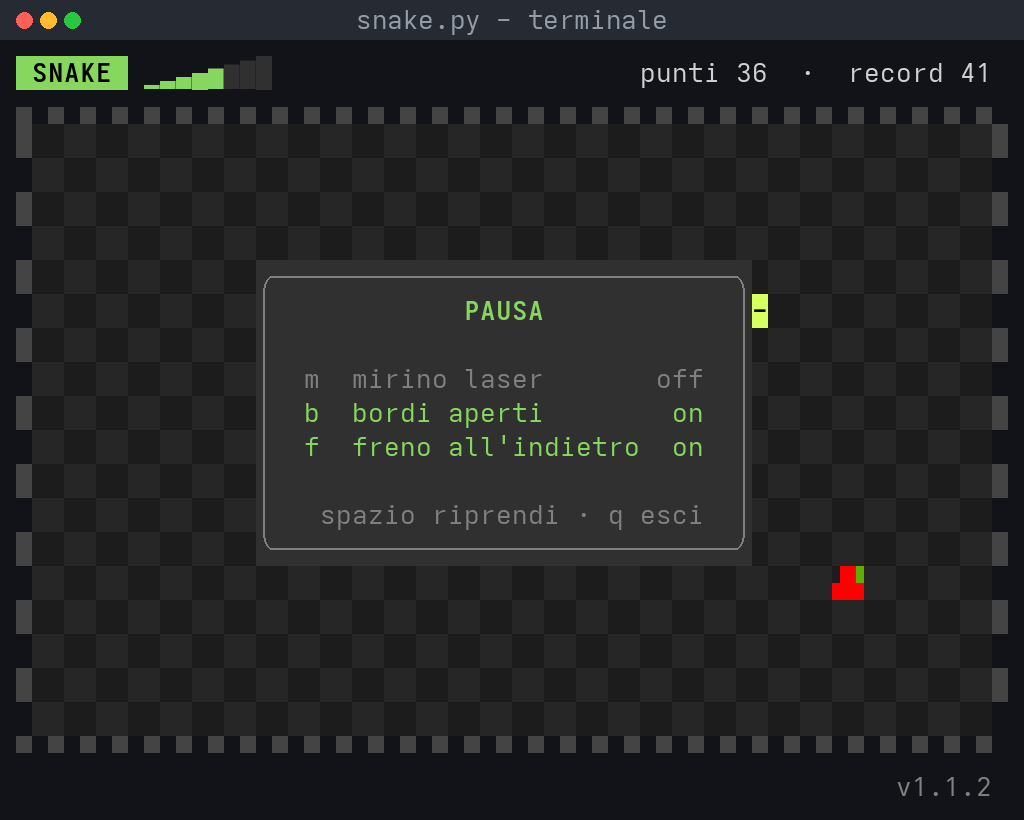
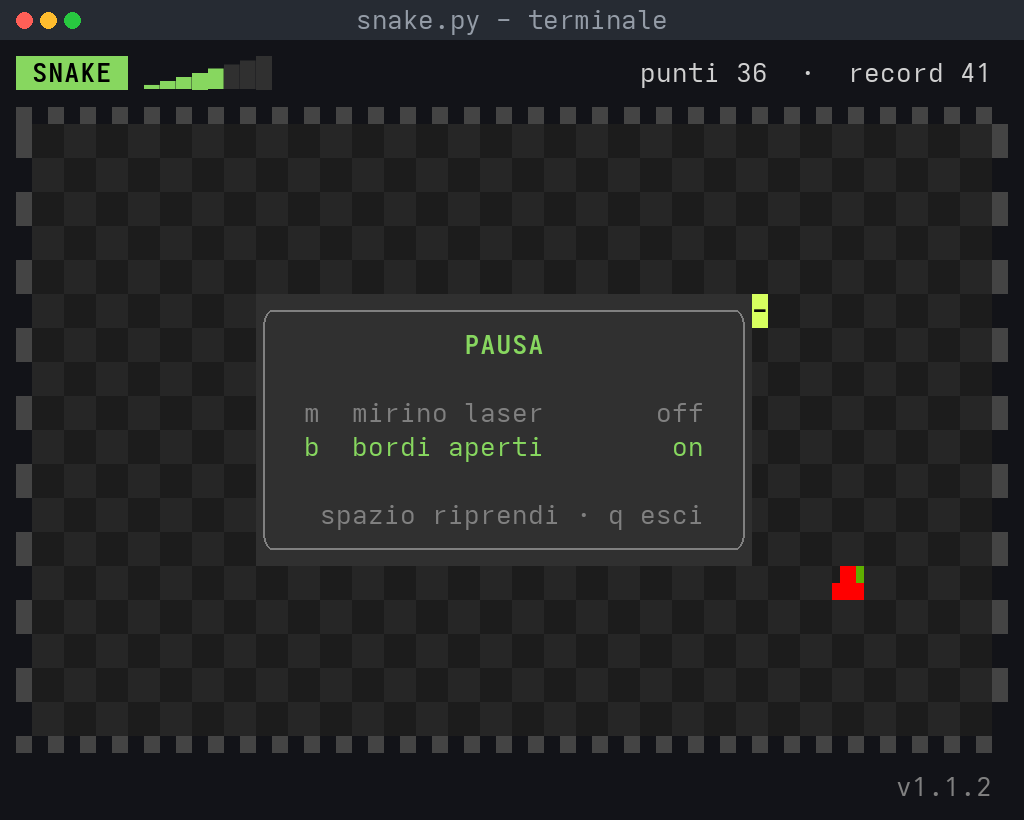
Frenata con la freccia opposta alla marcia, via l'aiuto freno (f)
Tenendo premuta la freccia opposta alla direzione di marcia il serpente
rallenta progressivamente (5 ms per pressione, fino a 250 ms per passo)
e resta lento finché i frutti non lo riaccelerano. Non serve più
attivare il freno con f: l'aiuto e il ripristino della velocità allo
spegnimento sono stati rimossi.

diff --git a/snake.py b/snake.py
@@ -6,16 +6,16 @@ Uso:
     python3 snake.py
 
 Controlli:
-    frecce o WASD : muovi il serpente
+    frecce o WASD : muovi il serpente (tenendo premuta la direzione di
+                    marcia scatta in avanti; la direzione opposta frena)
     m             : mirino laser on/off (mostra dove stai andando)
     b             : bordi aperti on/off (si esce da un lato, si rientra dall'altro)
-    f             : freno on/off (il tasto opposto alla marcia rallenta;
-                    spegnendolo si torna alla velocità normale)
     spazio        : pausa / riprendi (e stato degli aiuti)
     r             : nuovo gioco (dopo lo scontro)
     q             : esci
 
-Il serpente accelera a ogni frutto mangiato; muri e corpo = game over.
+Il serpente accelera a ogni frutto mangiato; la frenata dura finché i frutti
+non lo riaccelerano. Muri e corpo = game over.
 """
 
 import curses
@@ -29,8 +29,9 @@ MIN_H, MIN_W = 10, 20        # area di gioco minima (in celle)
 START_DELAY_MS = 130         # passo iniziale (ms)
 MIN_DELAY_MS = 55            # velocità massima
 SPEEDUP_MS = 4               # accelerazione per cibo mangiato
-BRAKE_MS = 15                # rallentamento per ogni colpo di freno
-MAX_DELAY_MS = 250           # velocità minima (con il freno)
+BRAKE_MS = 5                 # rallentamento per ogni pressione (o ripetizione)
+                             # della freccia opposta alla marcia
+MAX_DELAY_MS = 250           # velocità minima (frenando)
 
 UP, DOWN, LEFT, RIGHT = (-1, 0), (1, 0), (0, -1), (0, 1)
 KEYMAP = {
@@ -41,8 +42,7 @@ KEYMAP = {
 }
 # aiuti per chi inizia: tasto -> (nome, etichetta nel riquadro di pausa)
 ASSISTS = {ord('m'): ('mirino', 'mirino laser'),
-           ord('b'): ('bordi', 'bordi aperti'),
-           ord('f'): ('freno', "freno all'indietro")}
+           ord('b'): ('bordi', 'bordi aperti')}
 
 
 def toward(a, b):
@@ -112,10 +112,6 @@ class Game:
     def brake(self):
         """Rallenta di un passo (il cibo poi riaccelera come sempre)."""
         self.delay_ms = min(MAX_DELAY_MS, self.delay_ms + BRAKE_MS)
-
-    def release_brake(self):
-        """Annulla le frenate: torna alla velocità che avrebbe senza freno."""
-        self.delay_ms = max(MIN_DELAY_MS, START_DELAY_MS - self.score * SPEEDUP_MS)
 
     def step(self):
         """Avanza di un tick. Restituisce 'ok', 'ate', 'dead' o 'won'."""
@@ -311,7 +307,7 @@ def render(stdscr, game, state, best, pen, glow=(), assists=()):
 
     # intestazione
     put(0, 0, " SNAKE ", pen(16, ACCENT, curses.A_BOLD))
-    # tachimetro: 8 tacche, dalla velocità minima (freno) alla massima
+    # tachimetro: 8 tacche, dalla velocità minima (frenando) alla massima
     level = round(8 * (MAX_DELAY_MS - game.delay_ms) / (MAX_DELAY_MS - MIN_DELAY_MS))
     for i, bar in enumerate('▁▂▃▄▅▆▇█'):
         put(0, 8 + i, bar, pen(ACCENT if i < max(1, level) else PANEL, None))
@@ -379,7 +375,7 @@ def render(stdscr, game, state, best, pen, glow=(), assists=()):
     # piè di pagina: richiamo comandi (in partita), versione a destra
     footer = ''
     if state == 'playing':
-        for footer in ("WASD/frecce · m mirino · b bordi · f freno · spazio pausa · q esci",
+        for footer in ("WASD/frecce · indietro frena · m mirino · b bordi · spazio pausa · q esci",
                        "WASD/frecce · spazio pausa e aiuti · q esci",
                        "frecce · spazio pausa e aiuti · q esci"):   # entra sempre: ≤ 2 * MIN_W
             if len(footer) <= 2 * pw:
@@ -401,7 +397,7 @@ def main(stdscr):
     state = 'playing'
     game = None
     best = 0
-    assists = set()          # aiuti attivi: 'mirino', 'bordi', 'freno'
+    assists = set()          # aiuti attivi: 'mirino', 'bordi'
     glow = []                # età dei bocconi in viaggio (vedi snake_cells)
     next_tick = 0.0          # istante (time.monotonic) del prossimo passo
 
@@ -435,7 +431,7 @@ def main(stdscr):
                 state = 'paused'
 
         # attesa fino al prossimo passo: i tasti che non muovono il serpente
-        # (aiuti, freno) non fanno ripartire il conto alla rovescia
+        # (aiuti, frenata) non fanno ripartire il conto alla rovescia
         if state == 'playing':
             stdscr.timeout(max(0, math.ceil((next_tick - time.monotonic()) * 1000)))
         else:
@@ -448,15 +444,13 @@ def main(stdscr):
         if toggle:
             assists ^= {toggle[0]}
             game.wrap = 'bordi' in assists
-            if toggle[0] == 'freno' and 'freno' not in assists:
-                game.release_brake()             # freno spento: velocità normale
 
         if state == 'playing':
             stepped = False
             if key in KEYMAP:
                 d = KEYMAP[key]
-                if 'freno' in assists and d == (-game.direction[0], -game.direction[1]):
-                    game.brake()                 # indietro = frena
+                if d == (-game.direction[0], -game.direction[1]):
+                    game.brake()                 # indietro = frena (resta lento)
                 else:
                     game.set_direction(d)
                     stepped = True

diff --git a/scripts/generate_screenshots.py b/scripts/generate_screenshots.py
@@ -259,8 +259,8 @@ def main():
         ("screenshot-gioco.png", "playing", playing, 41, (17,), ()),
         ("screenshot-mirino.png", "playing", game_aiming(), 41, (1, 24), {"mirino"}),
         ("screenshot-bordi.png", "playing", game_wrapping(), 41, (10,),
-         {"mirino", "bordi", "freno"}),
-        ("screenshot-pausa.png", "paused", game_playing(), 41, (17,), {"bordi", "freno"}),
+         {"mirino", "bordi"}),
+        ("screenshot-pausa.png", "paused", game_playing(), 41, (17,), {"bordi"}),
         ("screenshot-gameover.png", "gameover", game_gameover(), 36, (), ()),
         ("screenshot-vittoria.png", "won", game_won(), 197, (), ()),
     ]

diff --git a/README.md b/README.md
@@ -33,8 +33,8 @@ Il gioco vive nel terminale (minimo **14×42** caratteri; più è grande, meglio
 </div>
 
 <div align="center">
-<img src="docs/screenshot-bordi.png" alt="Bordi aperti: muri tratteggiati, il serpente esce a destra e rientra da sinistra; il tachimetro in alto segna una velocità ridotta dal freno" width="85%">
-<br><sub>con i <b>bordi aperti</b> (tasto <code>b</code>) si esce da un lato e si rientra dall'altro; il tachimetro in alto mostra la velocità (qui ridotta col <b>freno</b>, tasto <code>f</code>)</sub>
+<img src="docs/screenshot-bordi.png" alt="Bordi aperti: muri tratteggiati, il serpente esce a destra e rientra da sinistra; il tachimetro in alto segna una velocità ridotta da una frenata" width="85%">
+<br><sub>con i <b>bordi aperti</b> (tasto <code>b</code>) si esce da un lato e si rientra dall'altro; il tachimetro in alto mostra la velocità (qui ridotta <b>frenando</b>: freccia opposta alla marcia)</sub>
 </div>
 
 | Pausa | Game over |
@@ -63,10 +63,10 @@ Serve solo **Python 3** e un terminale che sappia mostrare Unicode (Linux, macOS
 
 | Tasto | Azione |
 |:--:|:--|
-| `↑` `↓` `←` `→` oppure `W A S D` | muovi il serpente |
+| `↑` `↓` `←` `→` oppure `W A S D` | muovi il serpente; tenendo premuta la direzione di marcia scatta in avanti |
+| freccia opposta alla marcia | **frena**: tenendola premuta il serpente rallenta sempre di più |
 | `m` | aiuto: **mirino laser** on/off, una linea mostra la traiettoria fino al muro |
 | `b` | aiuto: **bordi aperti** on/off, si esce da un lato e si rientra da quello opposto |
-| `f` | aiuto: **freno** on/off, il tasto opposto alla direzione di marcia rallenta il serpente; spegnendolo si torna alla velocità normale |
 | `spazio` | pausa / riprendi (il riquadro di pausa mostra quali aiuti sono attivi) |
 | `r` | nuovo gioco (dopo game over o vittoria) |
 | `q` | esci |
@@ -75,11 +75,11 @@ Serve solo **Python 3** e un terminale che sappia mostrare Unicode (Linux, macOS
 
 - Ogni frutto mangiato (mela, arancia, prugna: si alternano) vale **+1 punto** e fa crescere il serpente: il boccone lampeggia e poi resta visibile, fermo dove è stato mangiato, finché la coda non lo raggiunge: è lì che il serpente si allunga.
 - A ogni frutto il gioco **accelera**: da 130 ms per passo fino a 55 ms (il massimo).
+- **Frenare**: ogni pressione della freccia opposta alla marcia rallenta di 5 ms (fino a 250 ms per passo); tenendola premuta si frena progressivamente, ma il serpente non si ferma mai e non fa inversione. La frenata resta: il serpente torna veloce solo mangiando, frutto dopo frutto.
 - Muri e proprio corpo = **game over**.
 - **Aiuti per chi inizia**, tutti spenti all'avvio e attivabili in qualsiasi momento (anche in pausa):
   - **mirino laser** (`m`): la traiettoria diventa più accesa quando punta dritta sul frutto;
   - **bordi aperti** (`b`): i muri diventano tratteggiati e si possono attraversare; resta solo il proprio corpo da evitare;
-  - **freno** (`f`): ogni pressione del tasto opposto alla marcia rallenta di 15 ms (fino a 250 ms per passo); tenendolo premuto si frena progressivamente, ma il serpente non si ferma mai. I frutti poi riaccelerano come sempre, e spegnendo il freno si torna subito alla velocità normale (quella che avresti senza aver mai frenato).
 - Riempi l'intero campo e vinci — in teoria. 😄
 - Il record della sessione è sempre in alto a destra. Ridimensionando il terminale la partita va in pausa e prosegue con punti, velocità e aiuti intatti; se il campo si stringe e il serpente non ci sta più, viene ricentrato (e, se è troppo lungo, perde la parte di coda in eccesso).
 
@@ -100,8 +100,8 @@ Un solo file, due mondi separati:
 | `START_DELAY_MS` | 130 | passo iniziale (ms) |
 | `MIN_DELAY_MS` | 55 | velocità massima |
 | `SPEEDUP_MS` | 4 | accelerazione per ogni cibo |
-| `BRAKE_MS` | 15 | rallentamento per ogni colpo di freno |
-| `MAX_DELAY_MS` | 250 | velocità minima raggiungibile col freno |
+| `BRAKE_MS` | 5 | rallentamento per ogni pressione della freccia opposta alla marcia |
+| `MAX_DELAY_MS` | 250 | velocità minima raggiungibile frenando |
 | `MIN_H × MIN_W` | 10 × 20 | campo minimo giocabile (in celle) |
 
 ### 🎨 La grafica
